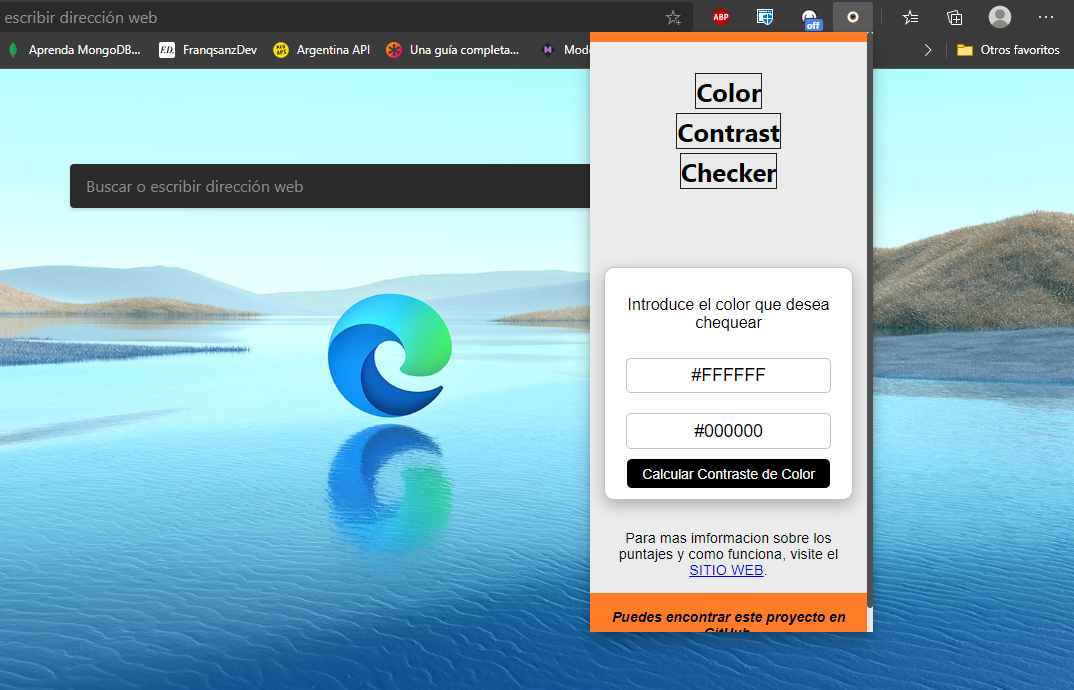
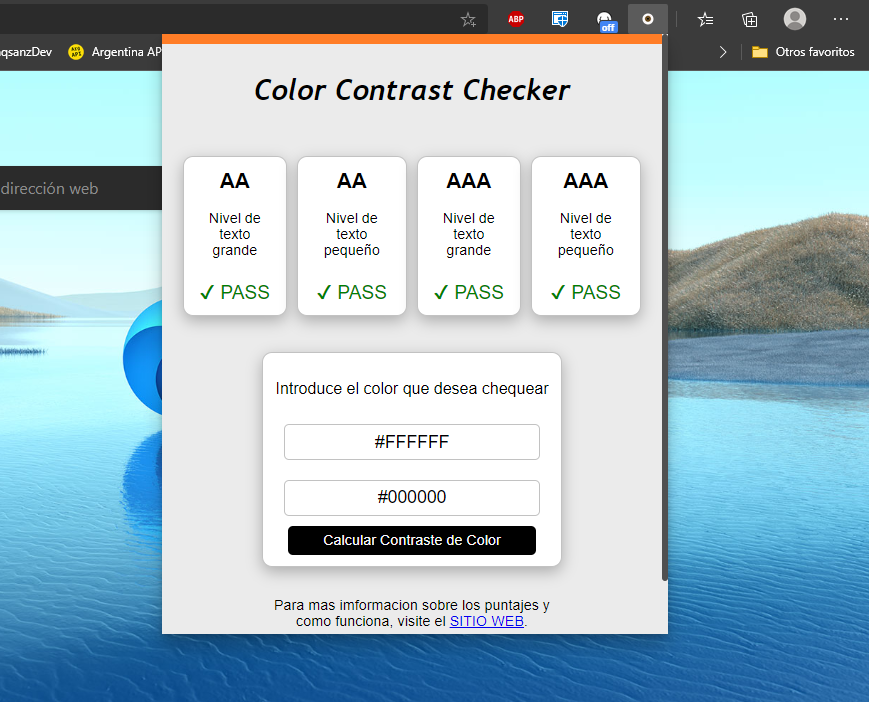
update desing and rename index.html => popup.html

diff --git a/css/style.css b/css/style.css
@@ -1,6 +1,16 @@
+:root {
+  --orange: #ff7d27;
+  --font-arial: Arial, Helvetica, sans-serif;
+  --font-trebuchet: 'Trebuchet MS', 'Lucida Sans Unicode', 'Lucida Grande',
+    'Lucida Sans', Arial, sans-serif;
+  --font-size-small: 0.9rem;
+  --text-align-center: center;
+}
+
 body {
+  width: 500px;
   margin: 0;
-  font-family: Arial, Helvetica, sans-serif;
+  font-family: var(--font-arial);
   background: #ebebeb;
 }
 
@@ -14,37 +24,30 @@ body {
 }
 
 header {
-  border-top: 10px solid #ff7d27;
+  border-top: 10px solid var(--orange);
 }
 
 .contentLogo {
-  width: 140px;
-  font-size: 1.6rem;
+  width: 400px;
+  font-size: 1.8rem;
   padding: 1.2rem;
-  text-align: center;
+  text-align: var(--text-align-center);
   margin: 10px auto;
   font-weight: 700;
-  font-family: -apple-system, BlinkMacSystemFont, 'Segoe UI', Roboto, Oxygen,
-    Ubuntu, Cantarell, 'Open Sans', 'Helvetica Neue', sans-serif;
-}
-
-.title {
-  line-height: 1.6;
-  outline: 1.5px solid #1f1f1f;
+  font-style: italic;
+  font-family: var(--font-trebuchet);
 }
 
 .contentChecker {
-  width: 90%;
-  /* padding: 1.1rem; */
+  width: 60%;
   margin: auto;
-  text-align: center;
-  font-size: 14px;
+  text-align: var(--text-align-center);
+  font-size: var(--font-size-small);
 }
 
 .inputs {
   background: white;
   display: flex;
-  /* width: 0%; */
   padding: 0.7rem;
   margin: 15px auto;
   flex-direction: column;
@@ -61,26 +64,15 @@ input,
 button {
   padding: 0.4rem;
   margin: 10px;
-  text-align: center;
+  text-align: var(--text-align-center);
   font-size: 1.1rem;
   border-radius: 5px;
   border: 1px solid #c2c2c2;
-}
-
-input[type='button'] {
-  width: 200px;
   outline: none;
-  background: #000000;
-  color: #eeeeee;
-  transition: all 0.1s;
-  border: none;
 }
 
-input[type='button']:focus {
-  background: #ffc700;
-  color: #000000;
-  outline: 1px dashed #000000;
-  transform: translateY(3px);
+input:focus {
+  border: 1px solid var(--orange);
 }
 
 button {
@@ -93,20 +85,33 @@ button {
   border: none;
   margin: auto;
   border-radius: 5px;
-  font-size: 14px;
+  font-size: var(--font-size-small);
+}
+
+button:active {
+  background: var(--orange);
+}
+
+button:focus {
+  outline: 1px solid #ffc700;
 }
 
 .contentResult {
   display: flex;
-  flex-direction: column;
   padding: 1rem;
-  font-size: 14px;
+  font-size: var(--font-size-small);
+  text-align: var(--text-align-center);
+}
+
+h2 {
+  margin-top: 0;
+  font-size: 1.3rem;
 }
 
 li {
   list-style: none;
   background: white;
-  margin: 7px;
+  margin: 5px;
   padding: 0.7rem;
   box-shadow: 0 5px 15px #acacac;
   border-radius: 10px;
@@ -116,9 +121,8 @@ li {
 .green,
 .red {
   margin: 0;
-  margin: 10px 0 0 0;
-  font-size: 1.1rem;
-  text-align: center;
+  margin: 20px 0 0 0;
+  font-size: 1.2rem;
 }
 
 .green {
@@ -126,23 +130,23 @@ li {
 }
 
 .red {
-  color: #ff1717;
+  color: #e71111;
 }
 
 .pInfo {
-  width: 245px;
+  width: 60%;
   margin: auto;
   padding: 15px;
-  text-align: center;
-  font-size: 0.9rem;
+  text-align: var(--text-align-center);
+  font-size: var(--font-size-small);
 }
 
 footer {
-  text-align: center;
-  font-size: 14px;
+  text-align: var(--text-align-center);
+  font-size: var(--font-size-small);
   padding: 1rem;
   color: #000000;
   font-weight: bold;
   font-style: italic;
-  background: #ff7d27;
+  background: var(--orange);
 }

diff --git a/js/index.js b/js/index.js
@@ -47,25 +47,25 @@ btn.addEventListener('click', () => {
 
     const result = `
         <li>
-            AA-Nivel de texto grande:
+            <h2>AA</h2> Nivel de texto grande
             ${ratio < 1 / 3
             ? `<p class="green">✔ PASS</p>`
             : `<p class="red">✖ FAIL</p>`}
         </li>
         <li>
-            AA-Nivel de texto pequeño:
+            <h2>AA</h2> Nivel de texto pequeño
             ${ratio < 1 / 4.5
             ? `<p class="green">✔ PASS</p>`
             : `<p class="red">✖ FAIL </p>`}
         </li>
         <li>
-            AAA-Nivel de texto grande:
+            <h2>AAA</h2> Nivel de texto grande
             ${ratio < 1 / 4.5
             ? `<p class="green">✔ PASS</p>`
             : `<p class="red">✖ FAIL </p>`}
         </li>
         <li>
-            AAA-Nivel de texto pequeño:
+            <h2>AAA</h2> Nivel de texto pequeño
             ${ratio < 1 / 7
             ? `<p class="green">✔ PASS</p>`
             : `<p class="red">✖ FAIL </p>`}

diff --git a/popup.html b/popup.html
@@ -11,9 +11,7 @@
 <body>
     <header></header>
     <section class="contentLogo">
-        <span class="title">Color</span>
-        <span class="title">Contrast</span>
-        <span class="title">Checker</span>
+        Color Contrast Checker
     </section>
     <section class="contentResult"></section>
     <section class="contentChecker">
@@ -25,12 +23,10 @@
         </div>
     </section>
     <p class="pInfo">
-        Para mas imformacion sobre los puntajes y como funciona, visite el <a
-            href="https://colorcontrastchecker.netlify.app" target="_black" rel="noopener">SITIO WEB</a>.
+        Para mas imformacion sobre los puntajes y como funciona, visite el
+        <a href="https://colorcontrastchecker.netlify.app" target="_black" rel="noopener">SITIO WEB</a>.
     </p>
-    <footer>
-        Puedes encontrar este proyecto en GitHub.
-    </footer>
+    <footer>Puedes encontrar este proyecto en GitHub.</footer>
     <script src="./js/index.js" defer></script>
 </body>
 
